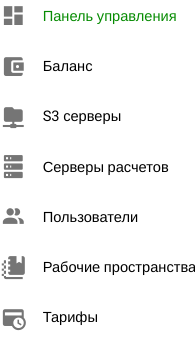
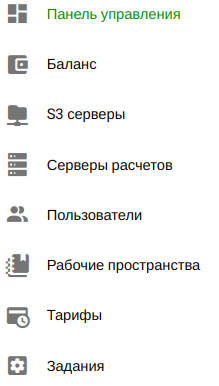
Add Admin jobs panel info

diff --git a/src/admin/README.md b/src/admin/README.md
@@ -24,7 +24,7 @@
 - <span class='iconify-inline' data-icon='mdi:account-multiple'></span>[Пользователи](#пользователи) - управления пользователями
 - <span class='iconify-inline' data-icon='mdi:notebook-multiple'></span>[Рабочие пространства](#рабочие-пространства) - управление [рабочими пространствами][4]
 - <span class='iconify-inline' data-icon='mdi:credit-card-clock'></span>[Тарифы](#тарифы) - управления [тарифами][5]
-- <span class='iconify-inline' data-icon='mdi:help-circle-multiple'></span>Документация API - [API документация][6] платформы
+- <span class='iconify-inline' data-icon='mdi:cog-box'></span>Задания - управление всеми [заданиями][12]
 
 <br clear="right"/>
 
@@ -44,6 +44,7 @@
   - Общая информация по серверам расчетов
   - Общая информация по пользователям
   - Общая информация по рабочим пространствам
+  - Общая информация по заданиям
 
 ## Баланс
 
@@ -198,6 +199,41 @@
 
     ![Payplan edit](/images/common/admin_payplan_edit.png)
 
+## Задания
+
+Отображение и управление списком заданий на платформе.
+
+![Jobs panel](/images/common/admin_jobs.png)
+
+Структура:
+
+- Панель инструментов
+
+  - <span class="iconify-inline" data-icon="mdi:download"></span> Скачать выделенное задание  
+  - <span class="iconify-inline" data-icon="mdi:cog-clockwise"></span> Перезапустить выделенные задания
+  - <span class="iconify-inline" data-icon="mdi:motion-play"></span> Перезапустить выделенные задания в интерактивном режиме
+  - <span class="iconify-inline" data-icon="mdi:refresh"></span> Обновления списка
+
+    >  Может содержать дополнительный ярлык:
+    >  - Верхний ярлык зеленого цвета  <span class='iconify-inline' data-icon='ph:number-circle-one-fill' style="color: green"></span>-  информирует об изменении количества заданий в узле.
+
+  - <span class="iconify-inline" data-icon="mdi:progress-check"></span> Фильтрация заданий по состоянию
+  - <span class="iconify-inline" data-icon="mdi:delete"></span> Удаление выбранных заданий
+  - Проекты - фильтрация по проектам
+  - Колонки - изменение отображаемых столбцов таблицы
+
+- Таблица с списком заданий
+  - Столбцы таблицы
+    - <span class="iconify-inline" data-icon="mdi:checkbox-blank-outline"></span> - переключатель выбора задания
+    - Id - идентификатор задания
+    - Проект - проект задания
+    - Создано - время инициации задания
+    - Владелец - пользователь создавший задание
+    - Состояние - текущее [состояние][6] выполнения задания
+
+Для открытия окна конкретного задания необходимо щелкнуть по его идентификатору в столбце **Id**.
+
+
 ## Установка
 
 ### Установка платформы
@@ -249,3 +285,4 @@
 [9]: /docs/desc/finance.md#счета
 [10]: /docs/desc/payplan.html
 [11]: /docs/instructions/#cброс-пароля
+[12]: /docs/desc/job.md
